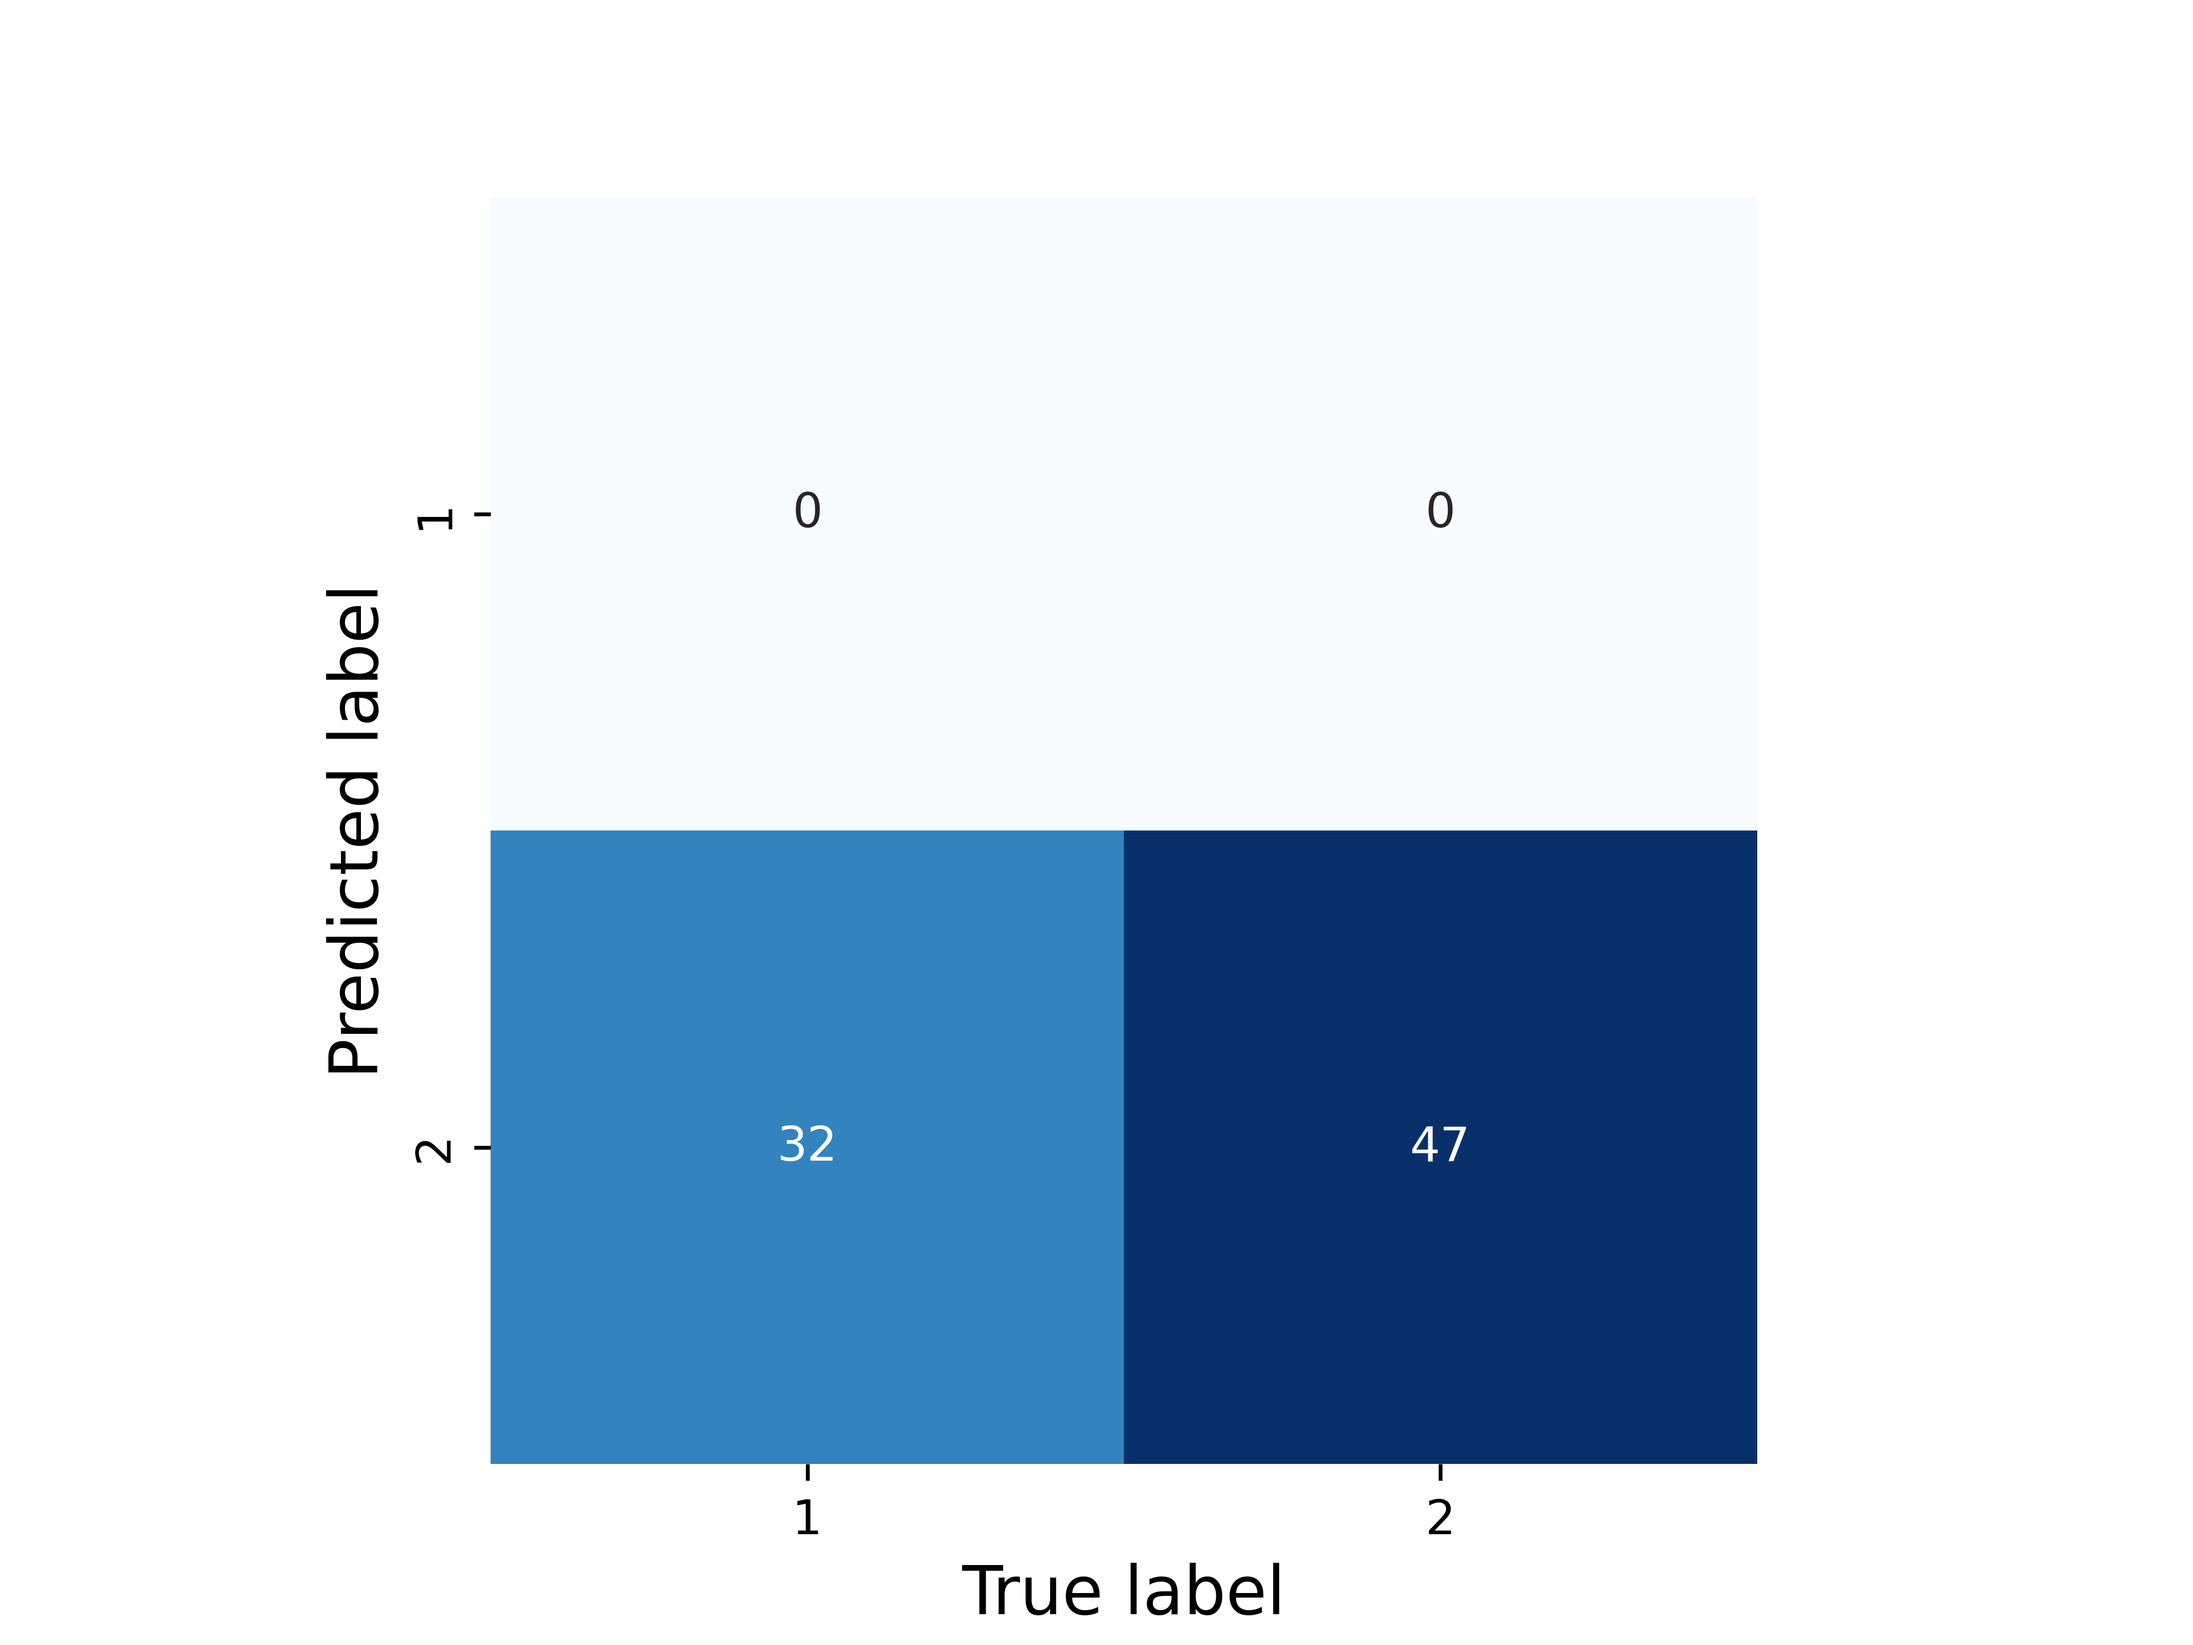
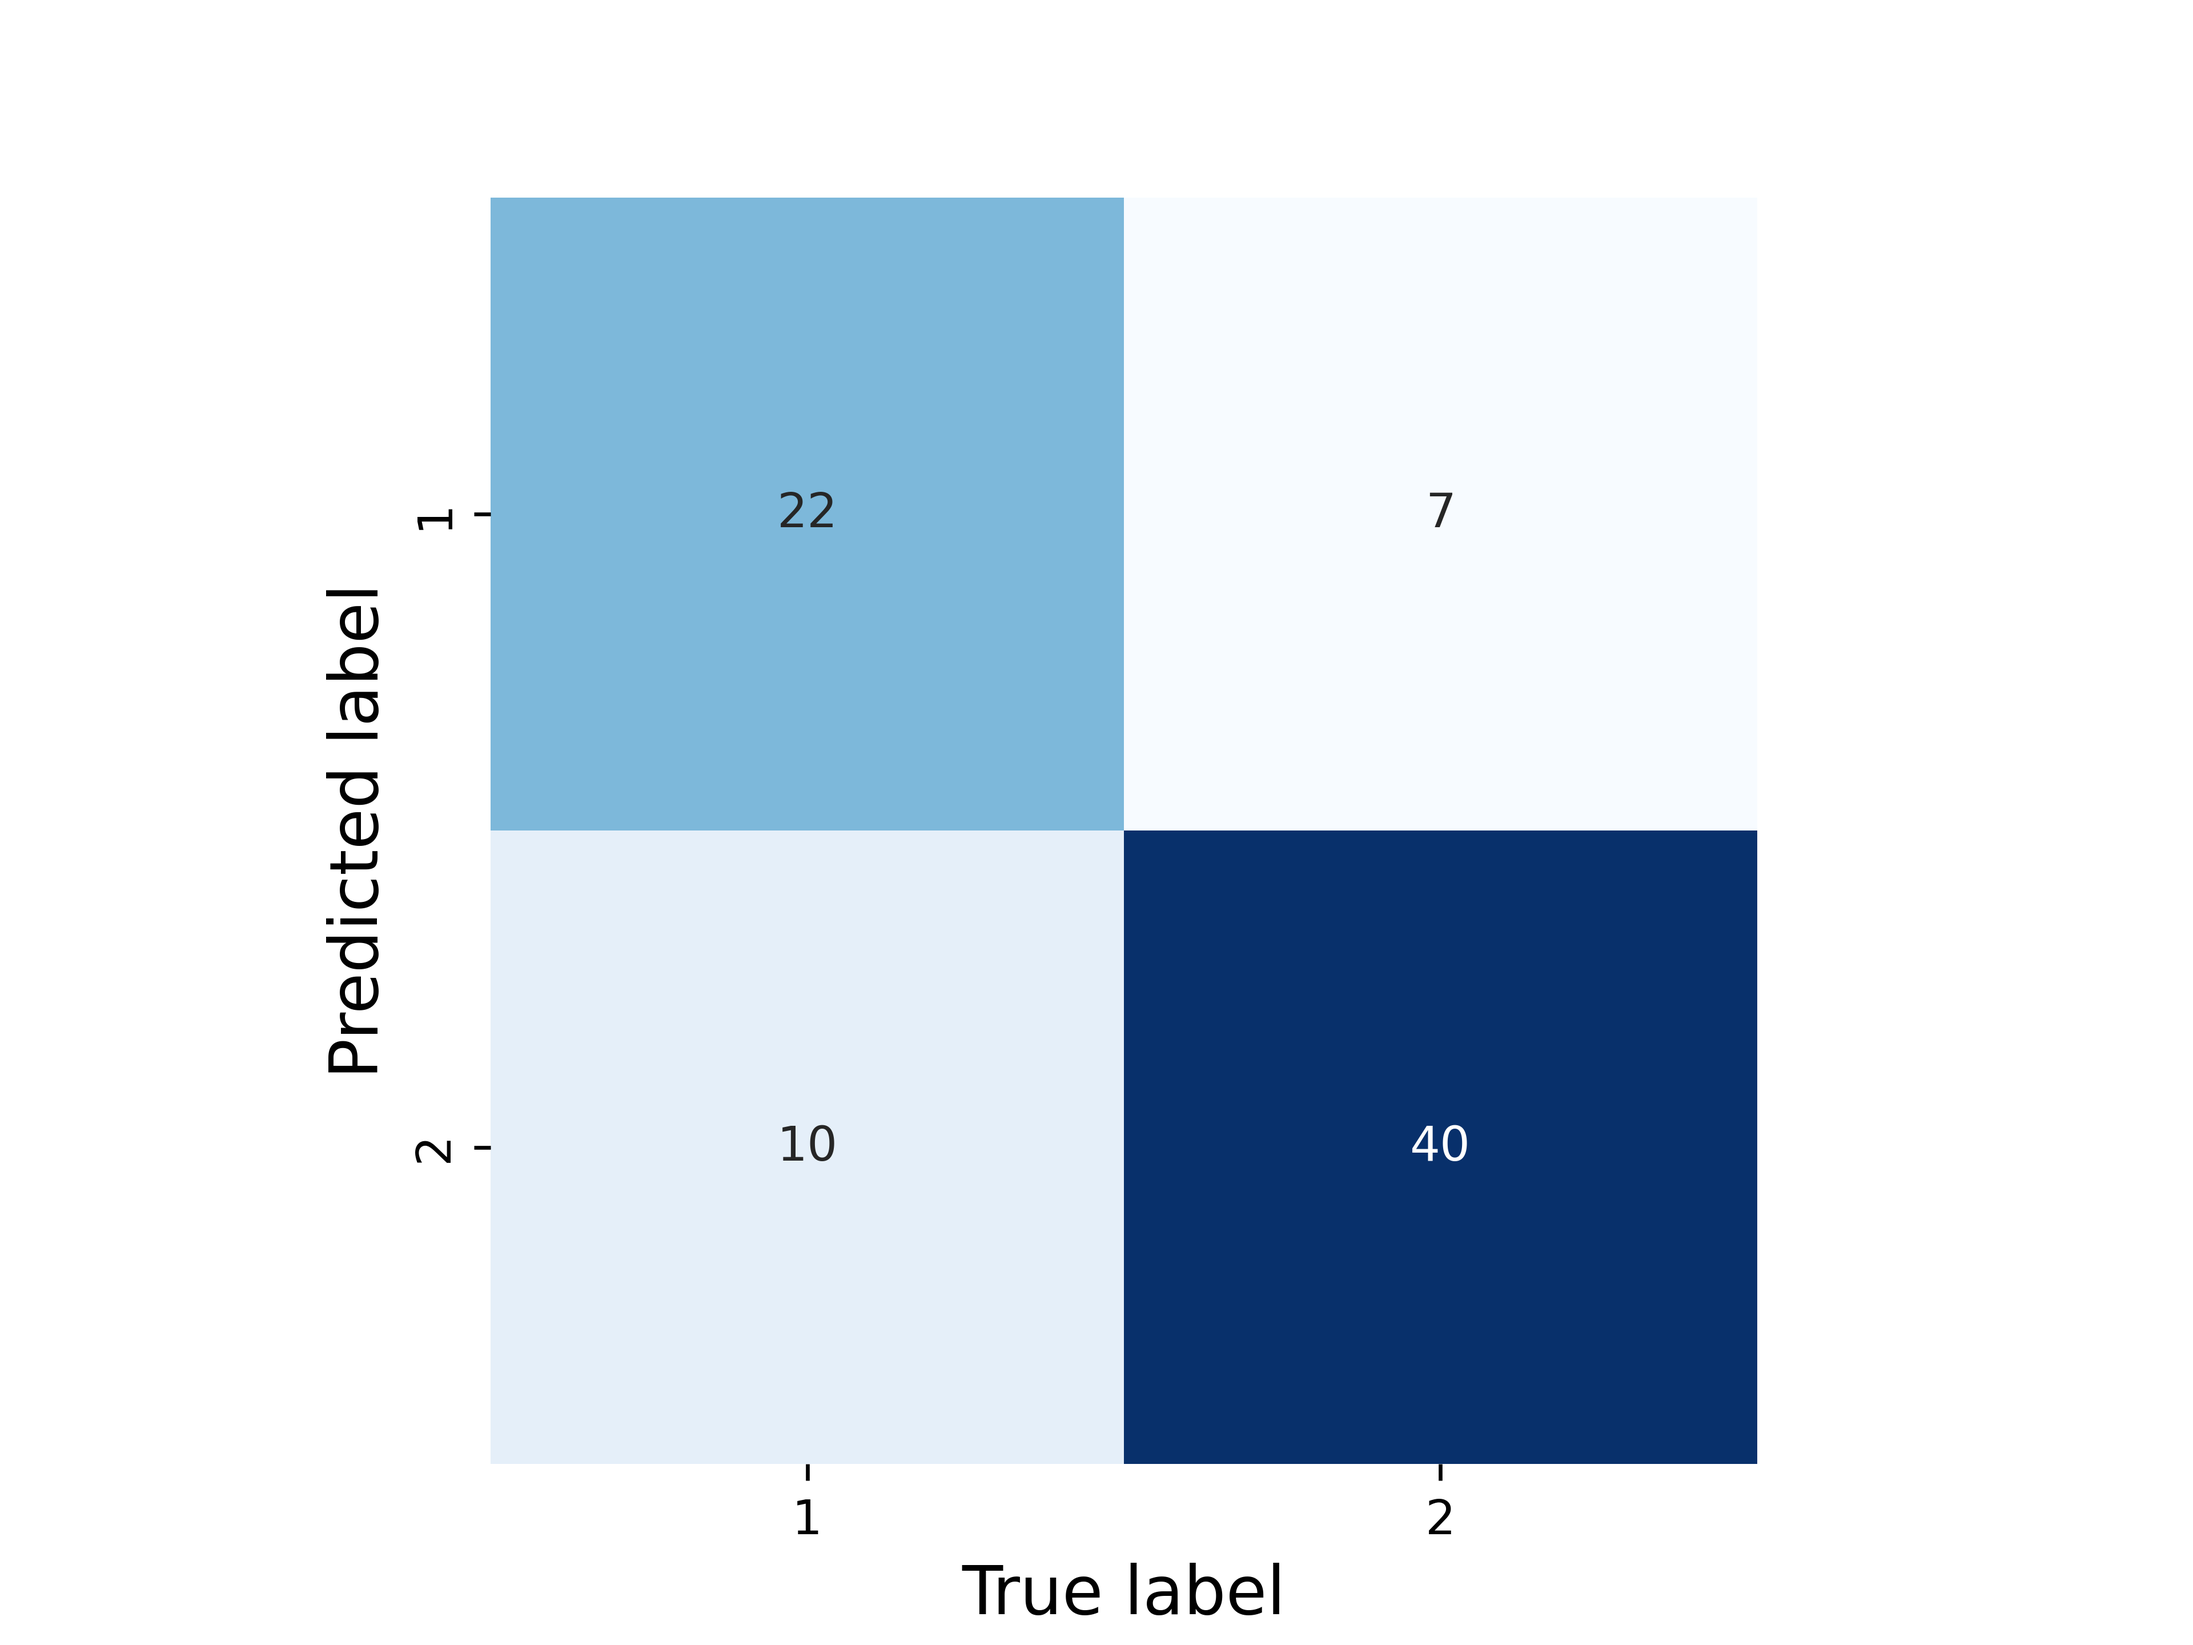
Finished.

Changed region(s): [[0.2188, 0.0938, 0.5312, 0.9062], [0.6562, 0.6875, 0.6875, 0.7188]]

diff --git a/src/models/neural_networks/adaline.py b/src/models/neural_networks/adaline.py
@@ -11,7 +11,7 @@ class Adaline:
         return self.weights.T.dot(x)
     
     def activation_function(self, value):
-        return 2 if value >= 0 else 1
+        return 2 if value >= 1.5 else 1
     
     def predict(self, x):
         input = self.input_function(x)
